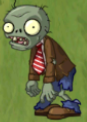
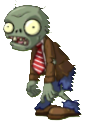
Zombie Animation + Spawning (basic Only)

diff --git a/main.cpp b/main.cpp
@@ -1,52 +1,18 @@
 #include<iostream>
 #include <SFML/Graphics.hpp>
 #include <ctime>
+#include"coordinates.h"
+#include"ZombieFactory.h"
 //#include"../SFML/Images/"
 
 using namespace sf;
 using namespace std;
 
 
-struct coordinats {
-	int x;
-	int y;
-	coordinats(int x, int y) : x(x), y(y) {}
-};
 
 
-class Zombie
-{
-	int health;
-	int speed;
-	int damage;
-	Image image;
-	Texture texture;
-	Sprite sproota;
-	coordinats Pos;
-
-public:
-	Zombie(int health, int speed, int damage, int x, int y) :Pos(x,y), health(health), speed(speed), damage(damage)
-	{
-		image.loadFromFile("./Images/zombie.png");
-		texture.loadFromImage(image);
-		sproota.setTexture(texture);
-		sproota.setPosition(Pos.x, Pos.y);
-	}
 
 
-	void Draw(RenderWindow& window)
-	{
-		window.draw(sproota);
-	}
-
-	void Move()
-	{
-		Pos.x -= speed;
-		sproota.setPosition(Pos.x, Pos.y);
-	}
-
-
-};
 
 
 //Drawing the background
@@ -79,6 +45,7 @@ void createMap(RenderWindow& window) {
 
 int main()
 {
+	srand(time(0));
 	//Create a window, n*n
 	RenderWindow window(VideoMode(1200, 700), "Plants Vs Zombies");
 	//Game icon
@@ -107,32 +74,32 @@ int main()
 
 	Clock timeMoney;
 	
-	Zombie z1(200, 1, 20, 1200, 150);
-	Zombie z2(200, 1, 20, 1200, 260);
-	Zombie z3(200, 2, 20, 1200, 370);
-	Zombie z4(200, 2, 20, 1200, 480);
-	Zombie z5(200, 3, 20, 1200, 590);
-
 
 
 
 
 	Clock clock;
 	Clock time;
-	double S_time = time.getElapsedTime().asSeconds();
-	window.setFramerateLimit(60);
+	window.setFramerateLimit(10);
+
+	//Zombie z1(200, 1, 20, 1000, 150);
+	ZombieFactory zf;
+
+	float deltaTime;
 	while (window.isOpen())
 	{
-		double E_time = time.getElapsedTime().asSeconds();
-		double FPS = 1/(E_time);
-		time.restart();
-		cout << "FPS : " << FPS << endl;
+		deltaTime = clock.restart().asSeconds();
+
 
 		float time = clock.getElapsedTime().asMicroseconds();
 		float moneyTime = timeMoney.getElapsedTime().asSeconds();
 
+
+
 		clock.restart();
 		time = time / 800;
+
+
 
 		Event event;
 		while (window.pollEvent(event))
@@ -147,16 +114,14 @@ int main()
 		createBack(window);
 		createMap(window);
 	
-		z1.Draw(window);
-		z1.Move();
-		z2.Draw(window);
-		z2.Move();
-		z3.Draw(window);
-		z3.Move();
-		z4.Draw(window);
-		z4.Move();
-		z5.Draw(window);
-		z5.Move();
+
+
+		zf.spawnWave();
+		zf.DrawZombies(window,deltaTime);
+		//z1.Draw(window, deltaTime);
+		//z1.Move();
+		//z1.UpdateAnimation(deltaTime);
+
 
 		
 		window.setSize(sf::Vector2u(1200, 700));

diff --git a/Zombie.cpp b/Zombie.cpp
@@ -1,0 +1,41 @@
+#include "Zombie.h"
+
+Zombie::Zombie(int health, int speed, int damage, int x, int y) :Pos(x, y), health(health), speed(speed), damage(damage), offset(0), Total_Animation_Time(0), switchTime(0.3)
+{
+	image.loadFromFile("./Images/zanimation2.png");
+
+	texture.loadFromImage(image);
+	sprite.setTexture(texture);
+	sprite.setTextureRect(IntRect(offset*120,0,120,190));
+	sprite.setPosition(Pos.x, Pos.y);
+}
+
+
+void Zombie::Draw(RenderWindow& window, float deltaTime)
+{
+
+	UpdateAnimation(deltaTime);
+	window.draw(sprite);
+	
+}
+
+void Zombie::UpdateAnimation(float deltaTime)
+{
+	Total_Animation_Time += deltaTime;
+	if (Total_Animation_Time >= switchTime)
+	{
+		Total_Animation_Time -= switchTime;
+		offset++;
+
+		if (offset > 2)
+			offset = 0;
+	}
+	sprite.setTextureRect(IntRect(offset * 120, 0, 120, 190));
+}
+
+void Zombie::Move()
+{
+	Pos.x -= speed;
+	health -= 2;
+	sprite.setPosition(Pos.x, Pos.y);
+}

diff --git a/ZombieFactory.cpp b/ZombieFactory.cpp
@@ -1,0 +1,46 @@
+#include "ZombieFactory.h"
+
+
+ZombieFactory::ZombieFactory()
+	: spawnInterval(3), num_Of_Zombie(0), zombie_limit(10), zombies(NULL), waveCalled(false) {}
+
+bool ZombieFactory::isIntervalReached()
+{
+	if (clock.getElapsedTime().asSeconds() < spawnInterval)
+		return false;
+
+	clock.restart();
+	return true;
+}
+
+void ZombieFactory::spawnWave()
+{
+	if (!waveCalled)
+	{
+		zombies = new Zombie * [zombie_limit];
+		waveCalled = true;
+	}
+	spawnZombie();
+}
+
+void ZombieFactory::spawnZombie()
+{
+	if (!isIntervalReached())
+		return;
+
+	if (num_Of_Zombie >= zombie_limit)
+		return;
+
+	zombies[num_Of_Zombie] = new Zombie(200, 1, 5, 1000, (108 * (rand() % 5 - 1)) + 190);
+	num_Of_Zombie++;
+}
+
+void ZombieFactory::DrawZombies(RenderWindow& window, float deltaTime)
+{
+	for (int i = 0; i < num_Of_Zombie; i++)
+	{
+
+		zombies[i]->Move();
+		zombies[i]->Draw(window, deltaTime);
+	}
+}

diff --git a/Zombie.h b/Zombie.h
@@ -1,0 +1,30 @@
+#pragma once
+#include<SFML/Graphics.hpp>
+#include"coordinates.h"
+using namespace sf;
+
+class Zombie
+{
+	int health;
+	int speed;
+	int damage;
+
+	Image image;
+	float Total_Animation_Time;
+	float switchTime;
+	int offset;
+	
+	Texture texture;
+	Sprite sprite;
+	coordinates Pos;
+
+public:
+	Zombie(int=200, int=1, int=5, int=1000, int=240);
+	void Draw(RenderWindow&, float);
+	void Move();
+	void UpdateAnimation(float interval);
+	//void Attack();
+	//void Collision();
+
+};
+

diff --git a/ZombieFactory.h b/ZombieFactory.h
@@ -1,0 +1,33 @@
+#pragma once
+#include"Zombie.h"
+#include<iostream>
+#include<ctime>
+
+class ZombieFactory
+{
+	float spawnInterval;
+	int num_Of_Zombie;
+	int zombie_limit;
+	Zombie** zombies;
+	Clock clock;
+	bool waveCalled;
+	
+
+
+public:
+	ZombieFactory();
+
+
+	bool isIntervalReached();
+
+
+	void spawnWave();
+
+
+	void spawnZombie();
+
+
+	void DrawZombies(RenderWindow& window, float deltaTime);
+
+};
+

diff --git a/coordinates.h b/coordinates.h
@@ -1,0 +1,8 @@
+#pragma once
+struct coordinates 
+{
+public:
+	int x;
+	int y;
+	coordinates(int x, int y); 
+};

diff --git a/coordinates.cpp b/coordinates.cpp
@@ -1,0 +1,3 @@
+#include "coordinates.h"
+
+coordinates::coordinates(int x, int y) : x(x), y(y) {}
